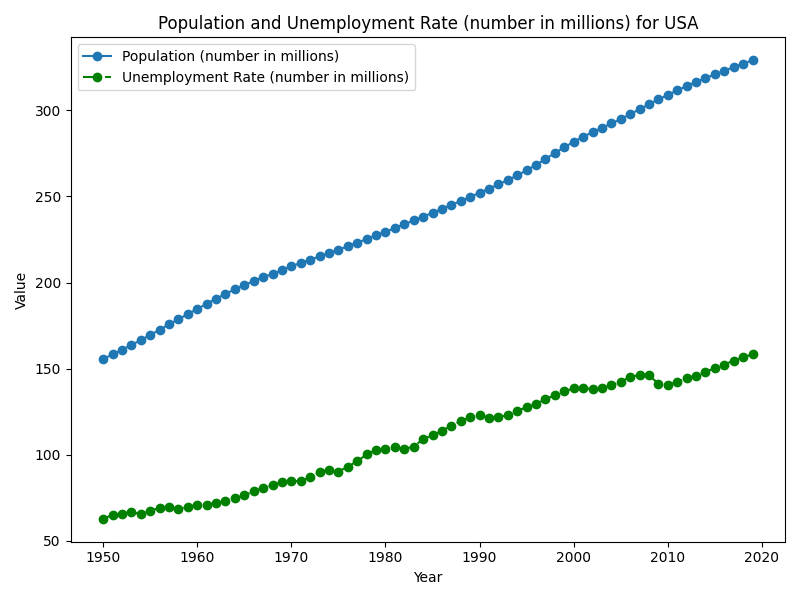
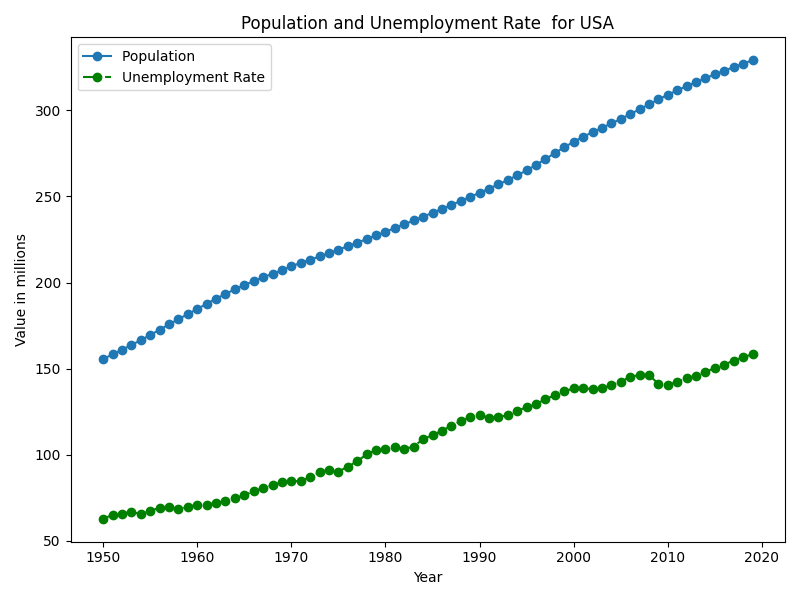
household consumption added

Changed region(s): [[0.1875, 0.03, 0.875, 0.15], [0.0, 0.39, 0.0312, 0.57]]

diff --git a/pop_unemployment.py b/pop_unemployment.py
@@ -17,11 +17,11 @@ fig, ax1 = plt.subplots(1, 1, figsize=(8, 6))
 df_pop = df.dropna(subset=["pop"])
 x_pop = df_pop['year']
 y_pop = df_pop['pop']
-ax1.plot(x_pop, y_pop, marker='o', linestyle='-', label='Population (number in millions)')
-ax1.plot(x_unemployment, y_unemployment, marker='o', linestyle='-.', color='green', label='Unemployment Rate (number in millions)')
+ax1.plot(x_pop, y_pop, marker='o', linestyle='-', label='Population ')
+ax1.plot(x_unemployment, y_unemployment, marker='o', linestyle='-.', color='green', label='Unemployment Rate')
 ax1.set_xlabel('Year')
-ax1.set_ylabel('Value')
-ax1.set_title('Population and Unemployment Rate (number in millions) for {}'.format(country))
+ax1.set_ylabel('Value in millions')
+ax1.set_title('Population and Unemployment Rate  for {}'.format(country))
 ax1.legend()
 
 # Adjust subplot spacing

diff --git a/consumptionHousehold.py b/consumptionHousehold.py
@@ -1,0 +1,24 @@
+import matplotlib.pyplot as plt
+import pandas as pd
+
+country = "USA"
+# Create a DataFrame
+df = pd.read_excel('pwt1001.xlsx', sheet_name='Data')
+df = df[df["countrycode"] == country]
+
+# Create a figure with a single subplot
+fig, ax1 = plt.subplots(1, 1, figsize=(8, 6))
+
+# Plot Unemployment Rate as a percentage of Population
+df_unemployment = df.dropna(subset=["ccon"])
+x_unemployment = df_unemployment['year']
+y_unemployment = df_unemployment['ccon']
+ax1.plot(x_unemployment, y_unemployment, marker='o', linestyle='-.', color='green')
+ax1.set_ylabel('Unemployment Rate (%)')
+ax1.set_title('Unemployment Rate (% of Population) for {}'.format(country))
+
+# Adjust subplot spacing
+plt.tight_layout()
+
+# Show the plots
+plt.show()
